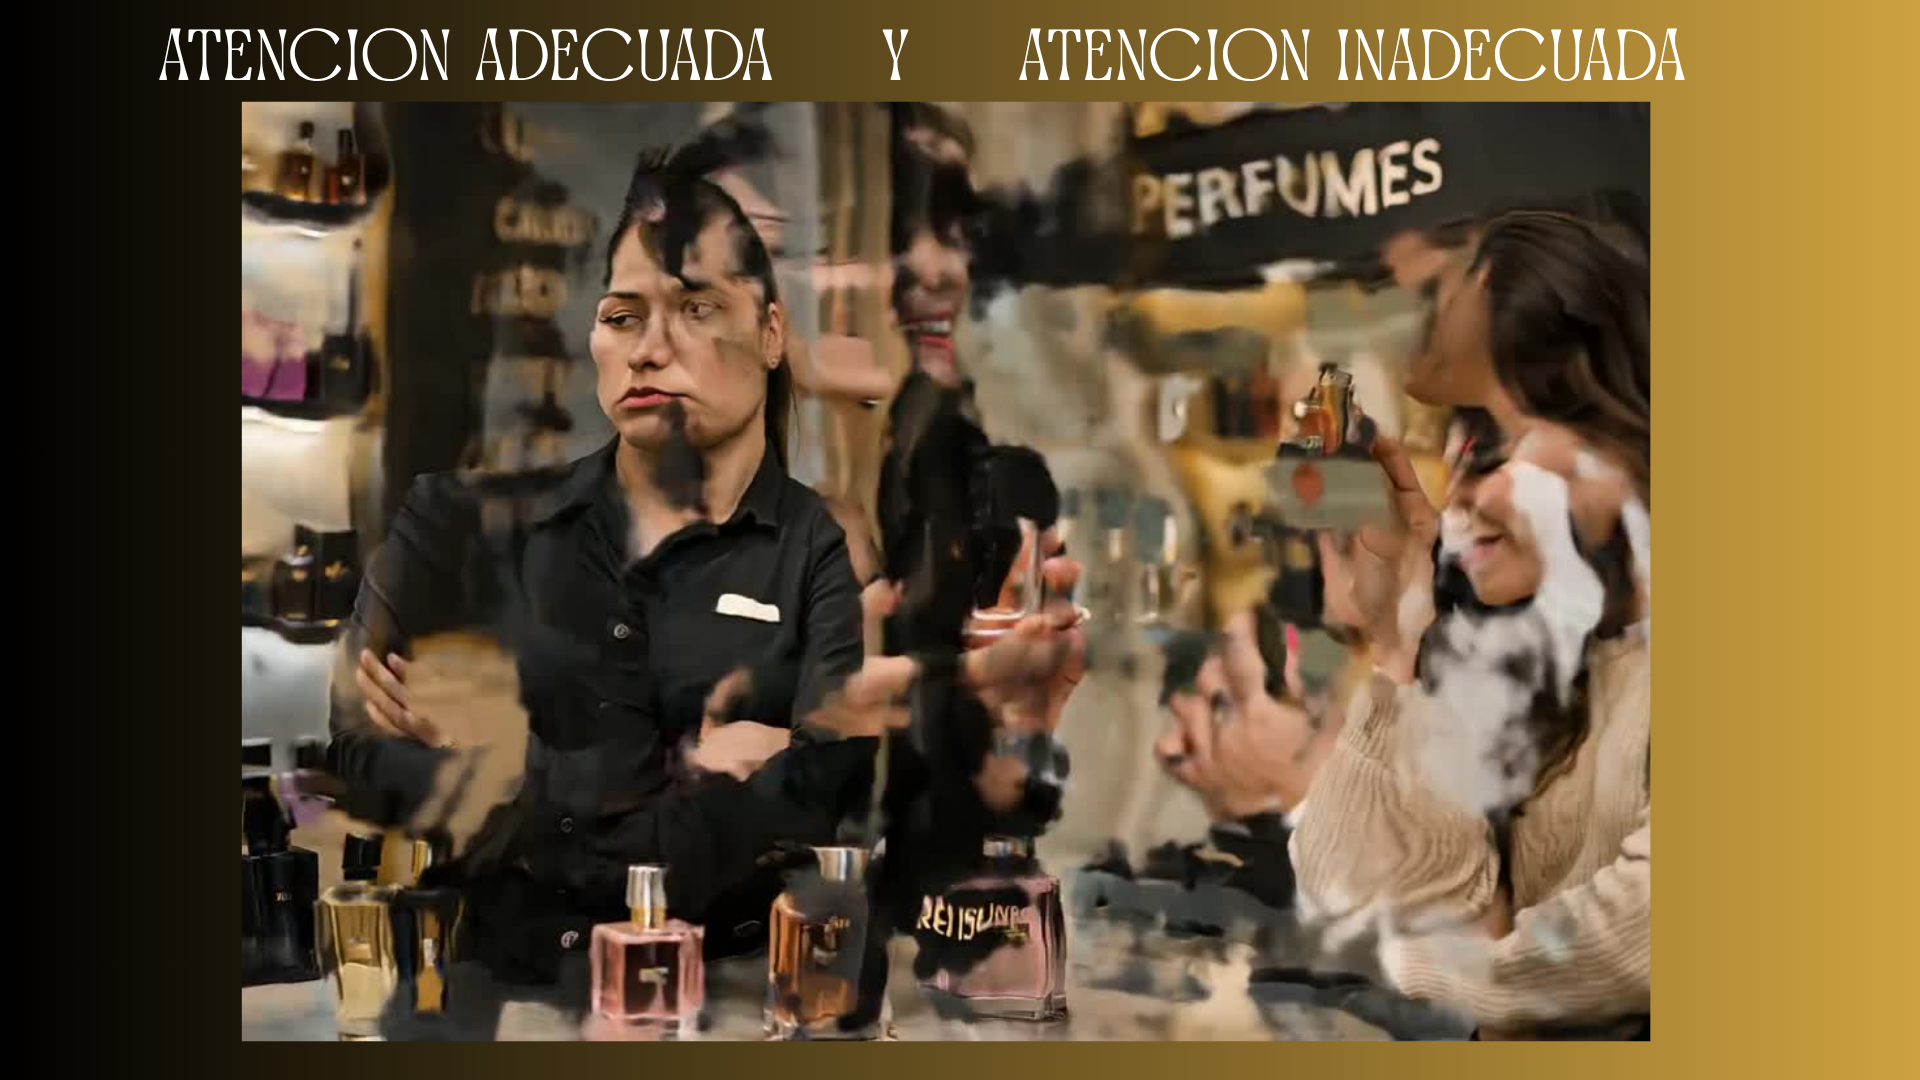
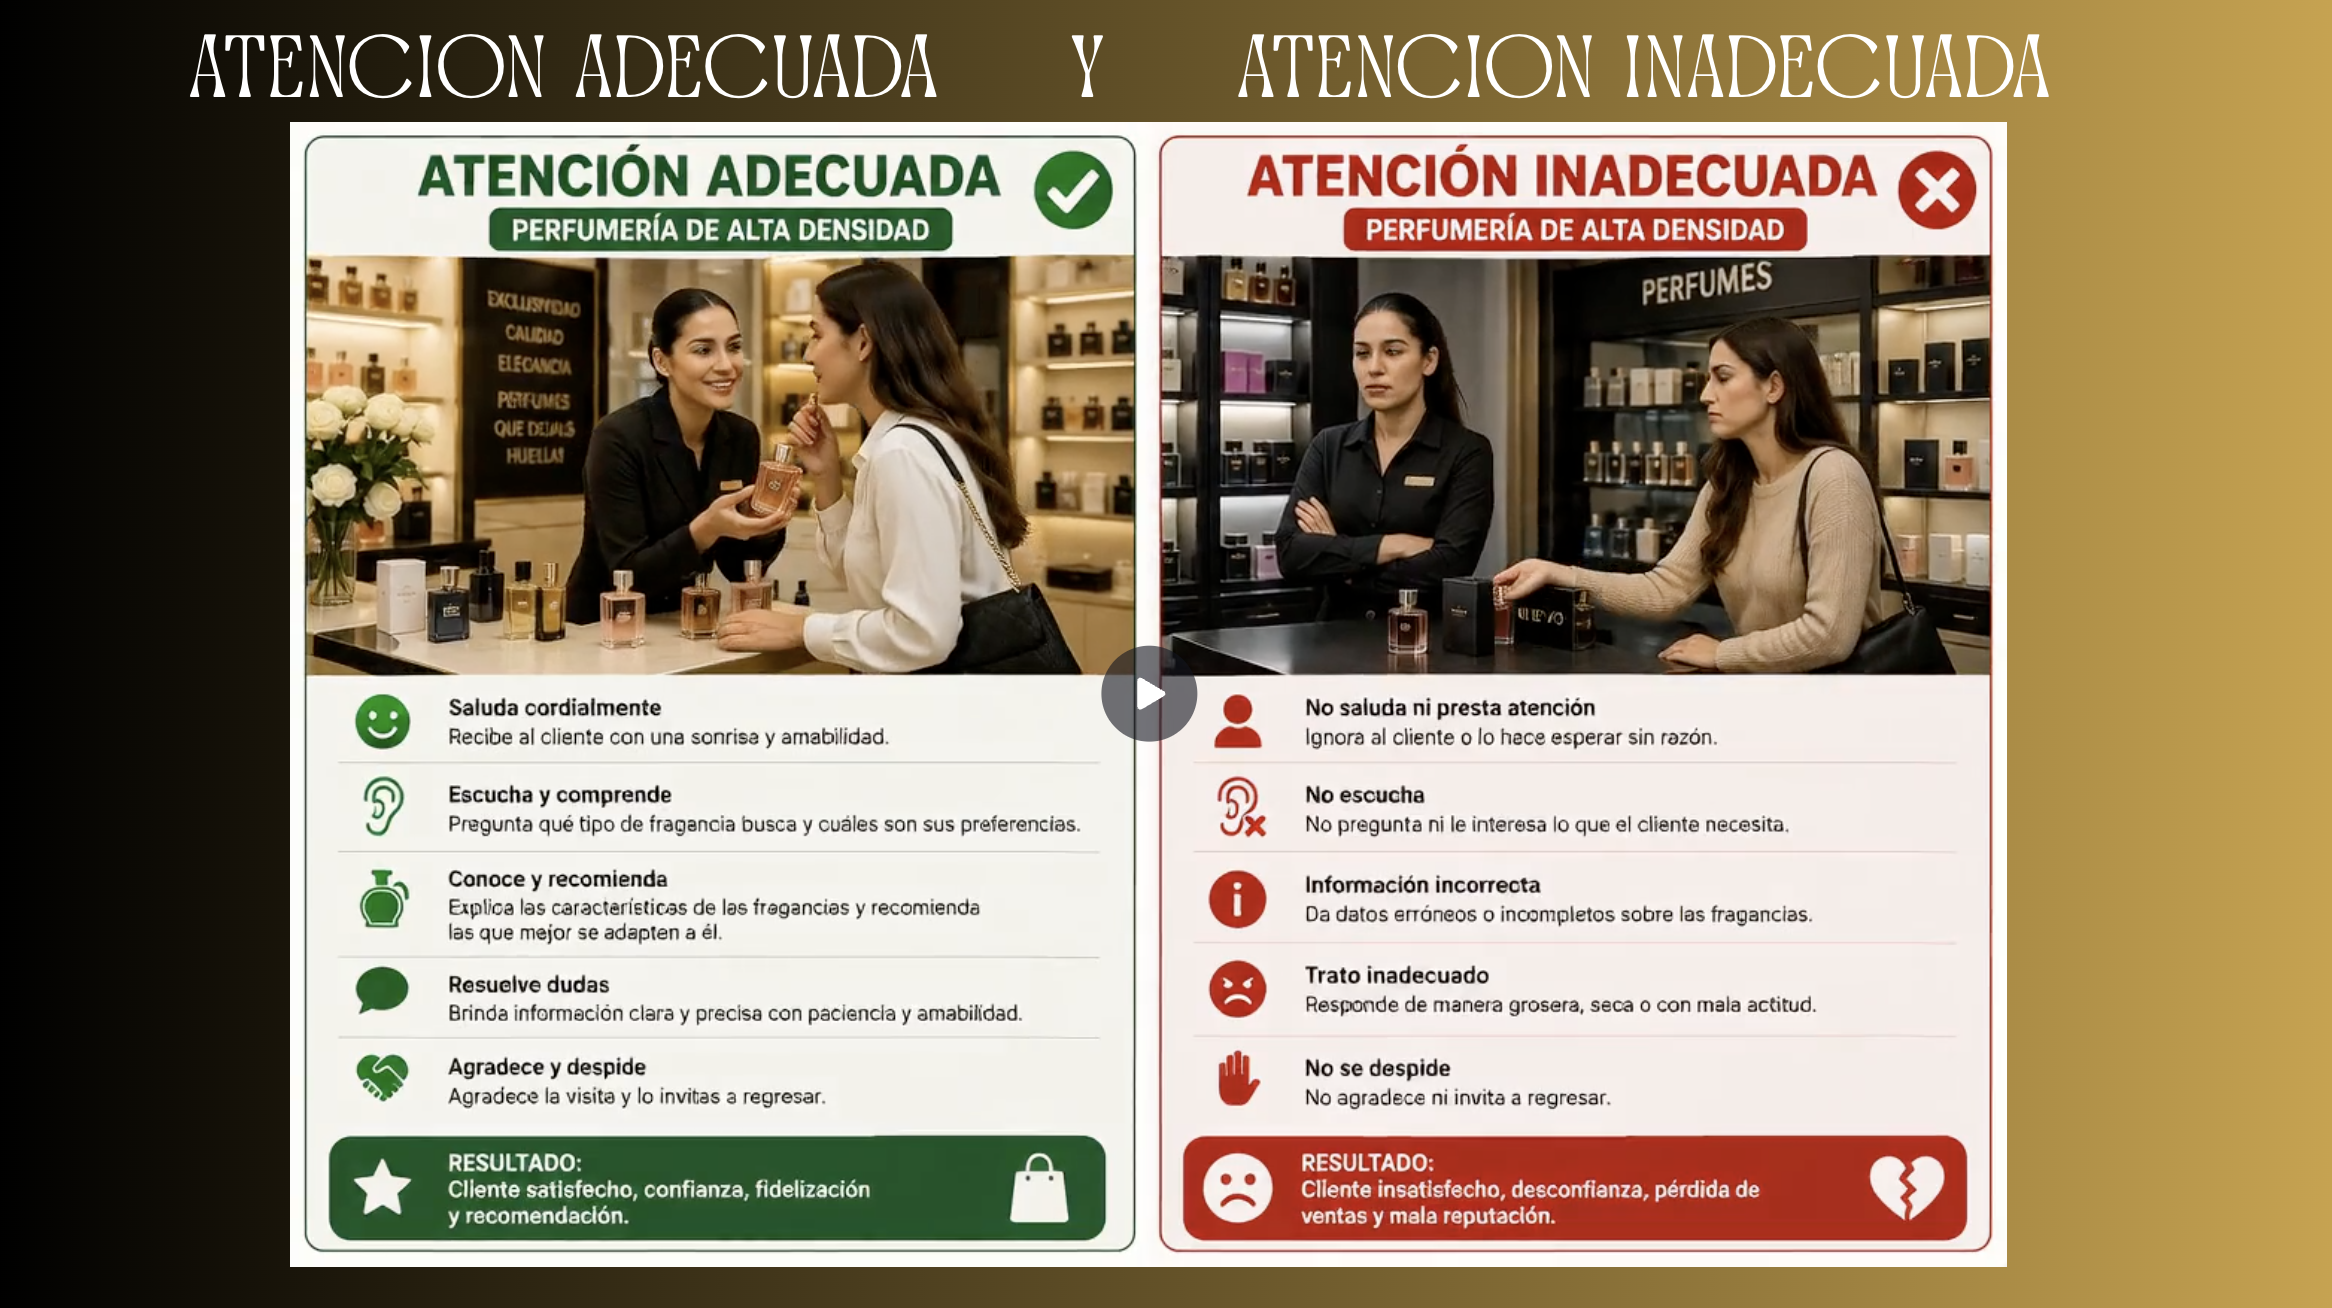
feat: actualizar imagen 40.png de capacitacion y contenido/preguntas asociadas a Atencion Adecuada vs Inadecuada

diff --git a/backend/seed-capacitacion.js b/backend/seed-capacitacion.js
@@ -1512,35 +1512,35 @@ async function seedCapacitacion(existingPool) {
                         "tipo": "imagen",
                         "imagen_url": "/assets/img/capacitacion/40.png",
                         "video_url": null,
-                        "contenido": "ATENCIÓN ADECUADA VS ATENCIÓN INADECUADA EN PERFUMERÍA:\n\nEjemplo práctico comparativo entre una atención cercana, orientadora y amable frente a una actitud apática, distraída con el celular o desinteresada con el comprador.\n\nLa diferencia está en la empatía y en hacer sentir bienvenido a cada cliente que ingresa a nuestro espacio.",
+                        "contenido": "ATENCIÓN ADECUADA VS ATENCIÓN INADECUADA EN PERFUMERÍA DE ALTA DENSIDAD:\n\nComparativo detallado de los 5 pasos para brindar una atención de excelencia frente a las faltas de una atención inadecuada:\n\n1. SALUDA CORDIALMENTE: Recibe al cliente con una sonrisa y amabilidad.\n2. ESCUCHA Y COMPRENDE: Pregunta qué tipo de fragancia busca y cuáles son sus preferencias.\n3. CONOCE Y RECOMIENDA: Explica las características de las fragancias y recomienda las que mejor se adapten a él.\n4. RESUELVE DUDAS: Brinda información clara y precisa con paciencia y amabilidad.\n5. AGRADECE Y DESPIDE: Agradece la visita y lo invitas a regresar.\n\n• RESULTADO ATENCIÓN ADECUADA: Cliente satisfecho, confianza, fidelización y recomendación.\n• RESULTADO ATENCIÓN INADECUADA (No saludar, no escuchar, información incorrecta, trato grosero, no despedirse): Cliente insatisfecho, desconfianza, pérdida de ventas y mala reputación.",
                         "preguntas": [
                                     {
-                                                "pregunta": "¿Qué distingue a una atención inadecuada en tienda?",
+                                                "pregunta": "¿Cuáles son los resultados directos de brindar una Atención Adecuada?",
                                                 "opciones": [
-                                                            "Actitud apática, brazos cruzados, estar distráido en el celular o desinterés",
-                                                            "Saludar con una sonrisa y escuchar atentamente",
-                                                            "Explicar las familias olfativas con calma",
-                                                            "Ofrecer opciones según el presupuesto"
+                                                            "Cliente satisfecho, confianza, fidelización y recomendación",
+                                                            "Cliente insatisfecho y pérdida de ventas",
+                                                            "Mala reputación y desconfianza",
+                                                            "Ningún impacto en el cliente"
                                                 ],
                                                 "respuesta_correcta": 0
                                     },
                                     {
-                                                "pregunta": "¿Qué genera en el cliente ser atendido de forma empática y adecuada?",
+                                                "pregunta": "¿Qué distingue a una Atención Inadecuada según la guía?",
                                                 "opciones": [
-                                                            "Sensación de acogida, confianza en el producto y fidelidad a la marca",
-                                                            "Ganas de salir corriendo",
-                                                            "Desconfianza en la empresa",
-                                                            "Ningún impacto"
+                                                            "No saludar, no escuchar, dar información incorrecta, trato grosero y no despedirse",
+                                                            "Saludar con sonrisa y escuchar preferencias",
+                                                            "Explicar características y resolver dudas con paciencia",
+                                                            "Agradecer la visita e invitar a regresar"
                                                 ],
                                                 "respuesta_correcta": 0
                                     },
                                     {
-                                                "pregunta": "¿Qué hacer si un cliente está indeciso entre varios perfumes?",
+                                                "pregunta": "¿Qué acción corresponde a la fase de 'Escucha y Comprende'?",
                                                 "opciones": [
-                                                            "Escucharlo, asesorarlo en notas olfativas y recomendar con paciencia y amabilidad",
-                                                            "Presionarlo para que compre la más cara de inmediato",
-                                                            "Ignorarlo y atender a otro",
-                                                            "Decirle que todas huelen igual"
+                                                            "Preguntar qué tipo de fragancia busca y cuáles son sus preferencias",
+                                                            "Ignorar al cliente o hacerlo esperar sin razón",
+                                                            "Responder de manera seca o con mala actitud",
+                                                            "No ofrecer explicaciones sobre los perfumes"
                                                 ],
                                                 "respuesta_correcta": 0
                                     }
